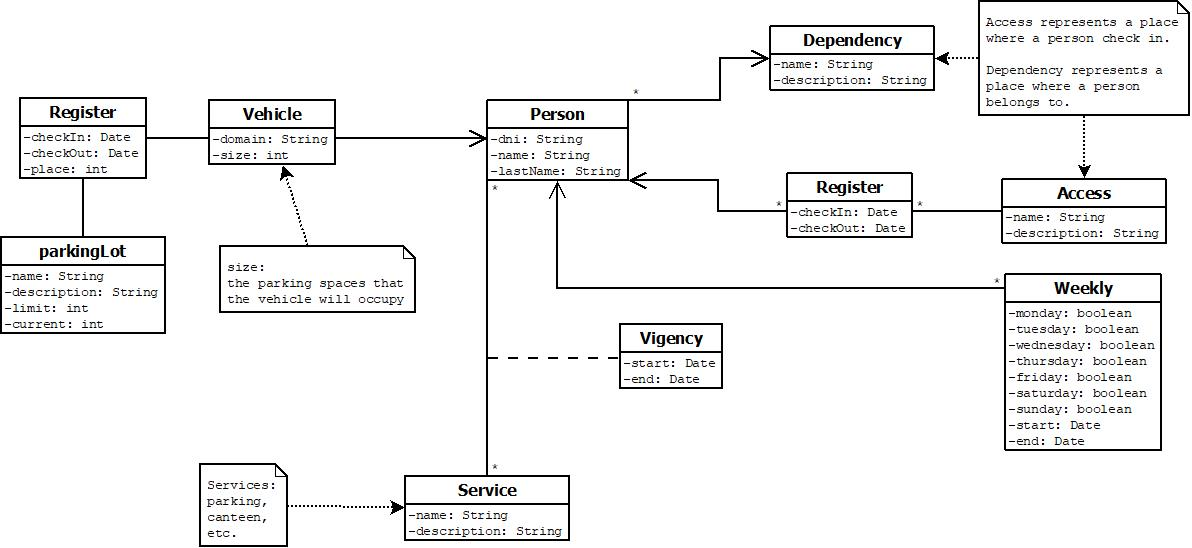
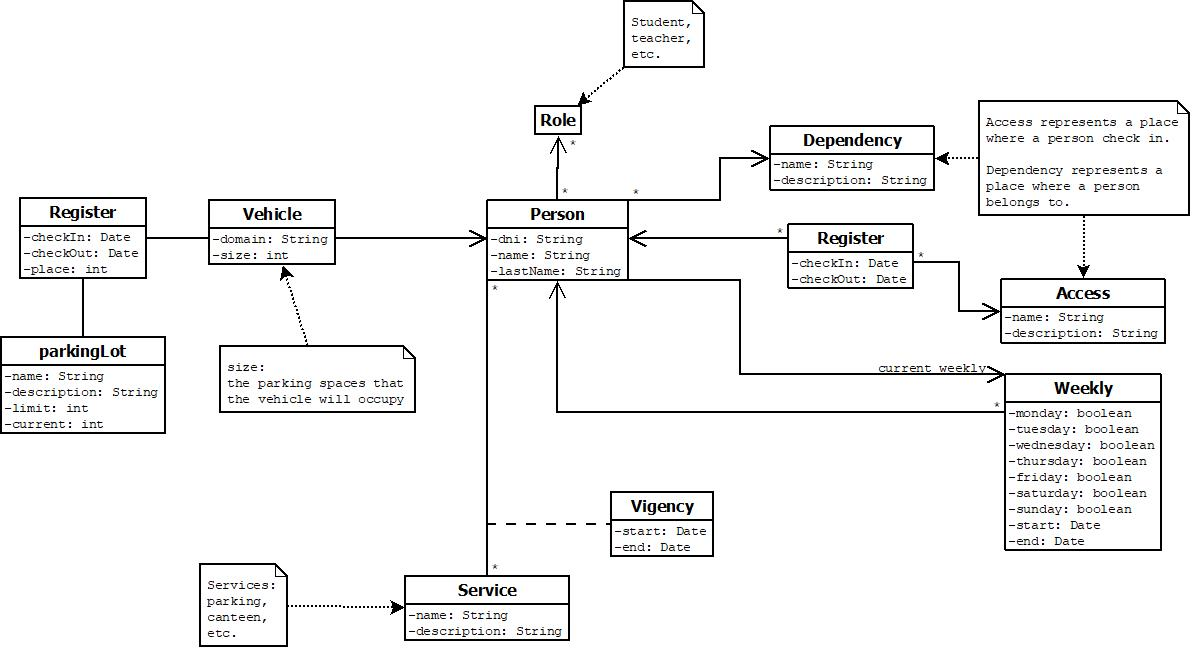
saving progress

diff --git a/src/main/java/ar/edu/unsl/fmn/gida/apis/registration/utils/files/ConfigFileInterpreter.java b/src/main/java/ar/edu/unsl/fmn/gida/apis/registration/utils/files/ConfigFileInterpreter.java
@@ -1,0 +1,92 @@
+package ar.edu.unsl.fmn.gida.apis.registration.utils.files;
+
+import java.io.File;
+import java.io.FileNotFoundException;
+import java.io.FileOutputStream;
+import java.io.IOException;
+import java.util.Scanner;
+import ar.edu.unsl.fmn.gida.apis.registration.exceptions.FileInterpreterException;
+
+public class ConfigFileInterpreter implements FileInterpreter {
+
+    private static final String SEPARATOR = "::";
+    private static final int PREFIX_VALUE = 0;
+    private static final int CONFIG_VALUE = 1;
+
+    private static final String PREFIX_LOG_FILE_DIR = "log_file_dir";
+
+    private static final String defaultContent = PREFIX_LOG_FILE_DIR + SEPARATOR
+            + "C:\\Users\\dglab\\OneDrive\\Escritorio\\jacksonTest\\log-file.txt\\n";
+
+
+    private File file;
+
+    public ConfigFileInterpreter(String fileLocation) {
+        this.file = new File(fileLocation);
+
+        try {
+            if (this.file.createNewFile()) {
+                System.out.println(
+                        "config file not found. A new one will be created with default content...");
+
+                // if (!this.file.canRead())
+                // file.setReadable(true);
+
+                // write the file with default content
+                FileOutputStream outputStream = new FileOutputStream(this.file);
+                byte[] defaultContentToBytes = defaultContent.getBytes();
+                outputStream.write(defaultContentToBytes);
+                outputStream.close();
+            }
+        } catch (IOException e) {
+            e.printStackTrace();
+        }
+    }
+
+    private void setUpByPrefix(String[] configFileLine) {
+        switch (configFileLine[PREFIX_VALUE]) {
+            case PREFIX_LOG_FILE_DIR:
+                this.readLogFile(configFileLine[CONFIG_VALUE]);
+                break;
+            default:
+                System.out.println("prefix no defined.");
+                break;
+        }
+    }
+
+    private void readLogFile(String fileDir) {
+        File logFile = new File(fileDir);
+        try {
+            if (logFile.createNewFile()) {
+                System.out.println(
+                        "log file was not found. A new one will be created with default content...");
+
+                // if (!this.file.canRead())
+                // file.setReadable(true);
+
+                // write the file with default content
+                FileOutputStream outputStream = new FileOutputStream(logFile, true);
+                byte[] defaultContentToBytes = defaultContent.getBytes();
+                outputStream.write(defaultContentToBytes);
+                outputStream.close();
+            }
+        } catch (IOException e) {
+            e.printStackTrace();
+        }
+    }
+
+    @Override
+    public void interpret() throws FileInterpreterException {
+        Scanner scanner;
+        try {
+            scanner = new Scanner(file);
+            // scanner.useDelimiter(SEPARATOR);
+            while (scanner.hasNext()) {
+                this.setUpByPrefix(scanner.next().split(scanner.next()));
+            }
+            scanner.close();
+        } catch (FileNotFoundException e) {
+            e.printStackTrace();
+        }
+    }
+}

diff --git a/src/main/java/ar/edu/unsl/fmn/gida/apis/registration/RegistrationSystemApplication.java b/src/main/java/ar/edu/unsl/fmn/gida/apis/registration/RegistrationSystemApplication.java
@@ -5,11 +5,22 @@ import org.springframework.boot.autoconfigure.SpringBootApplication;
 import org.springframework.context.annotation.Bean;
 import org.springframework.web.servlet.config.annotation.CorsRegistry;
 import org.springframework.web.servlet.config.annotation.WebMvcConfigurer;
+import ar.edu.unsl.fmn.gida.apis.registration.endpoints.Endpoint;
+import ar.edu.unsl.fmn.gida.apis.registration.exceptions.FileInterpreterException;
+import ar.edu.unsl.fmn.gida.apis.registration.utils.files.ConfigFileInterpreter;
 
 @SpringBootApplication
 public class RegistrationSystemApplication {
 	public static void main(String[] args) {
 		SpringApplication.run(RegistrationSystemApplication.class, args);
+
+		// ConfigFileInterpreter configFileInterpreter = new ConfigFileInterpreter(
+		// System.getProperty("user.dir") + "\\src\\main\\resources\\configs.CONF");
+		// try {
+		// configFileInterpreter.interpret();
+		// } catch (FileInterpreterException e) {
+		// e.printStackTrace();
+		// }
 	}
 
 	@Bean
@@ -17,7 +28,10 @@ public class RegistrationSystemApplication {
 		return new WebMvcConfigurer() {
 			@Override
 			public void addCorsMappings(CorsRegistry registry) {
-				registry.addMapping("/users").allowedOrigins("http://localhost:3000");
+				registry.addMapping("/" + Endpoint.dependencies)
+						.allowedOrigins("http://localhost:3000");
+				registry.addMapping("/" + Endpoint.users).allowedOrigins("http://localhost:3000");
+				registry.addMapping("/" + Endpoint.persons).allowedOrigins("http://localhost:3000");
 				// .allowedMethods("GET", "POST", "PUT", "DELETE")
 				// .maxAge(3600);
 			}

diff --git a/src/main/java/ar/edu/unsl/fmn/gida/apis/registration/model/Person.java b/src/main/java/ar/edu/unsl/fmn/gida/apis/registration/model/Person.java
@@ -10,6 +10,7 @@ import javax.persistence.GeneratedValue;
 import javax.persistence.GenerationType;
 import javax.persistence.Id;
 import javax.persistence.ManyToOne;
+import javax.persistence.OneToOne;
 import javax.persistence.Table;
 import javax.validation.constraints.NotBlank;
 import javax.validation.constraints.NotNull;
@@ -48,6 +49,10 @@ public class Person {
     @NotNull
     @ManyToOne(fetch = FetchType.EAGER, optional = false)
     private Dependency dependency;
+
+    @NotNull
+    @OneToOne(fetch = FetchType.EAGER, optional = false)
+    private Weekly currentWeekly;
 
     @Enumerated
     @ElementCollection(targetClass = Role.class)

diff --git a/src/main/java/ar/edu/unsl/fmn/gida/apis/registration/utils/files/FileInterpreter.java b/src/main/java/ar/edu/unsl/fmn/gida/apis/registration/utils/files/FileInterpreter.java
@@ -1,0 +1,13 @@
+package ar.edu.unsl.fmn.gida.apis.registration.utils.files;
+
+import ar.edu.unsl.fmn.gida.apis.registration.exceptions.FileInterpreterException;
+
+public interface FileInterpreter {
+    /**
+     * Interpret a file with configurations.
+     * 
+     * @throws FileInterpreterException
+     * @throws FileNotFoundException
+     */
+    void interpret() throws FileInterpreterException;
+}

diff --git a/src/main/java/ar/edu/unsl/fmn/gida/apis/registration/exceptions/FileInterpreterException.java b/src/main/java/ar/edu/unsl/fmn/gida/apis/registration/exceptions/FileInterpreterException.java
@@ -1,0 +1,12 @@
+package ar.edu.unsl.fmn.gida.apis.registration.exceptions;
+
+public class FileInterpreterException extends RuntimeException {
+
+    public FileInterpreterException(String message) {
+        super(message);
+    }
+
+    public FileInterpreterException(String message, Throwable throwable) {
+        super(message, throwable);
+    }
+}
